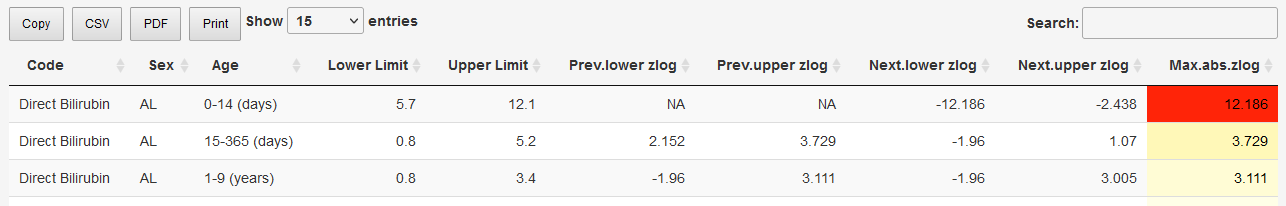
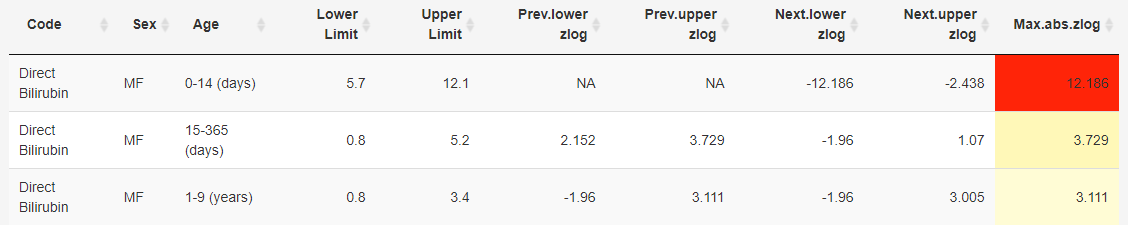
Change "AL" to "MF"

diff --git a/README.md b/README.md
@@ -1,4 +1,4 @@
-# Shiny App for Plausibility Checks of Reference Interval Limits!
+# Shiny App for "A zlog-based algorithm and tool for plausibility checks of reference intervals!"
 
 <img src="www/Logo.svg" width="225px" height="150px" align="right"/>
 
@@ -9,8 +9,8 @@
 
 This Shiny App computes the zlog values of the preceding and the subsequent reference interval for different analytes for each age group. Many medical reference intervals are not age-dependent and have large jumps between the individual age groups. This should be prevented by considering the zlog value. The lower reference limits (LL) and upper reference limits (UL) can transform any result x into a zlog value using the following equation: 
 
+zlog(x) = (log(x)–(log(LL)+ log(UL))/2)*3.92/(log(UL)–log(LL))
 
-<img src="https://render.githubusercontent.com/render/math?math={zlog(x)=(log(x) - \frac{log(UG) %2B log(OG)}{2}}) * \frac{3.92}{log(OG) - log(UG)}" align="center">
 If the zlog value deviates significantly from -1.96 to 1.96, the reference intervals and the age groups should possibly be renewed to obtain age-dependent reference intervals.
 <p>&nbsp</p>
 <img src="docs/table.png" align="center"/>
@@ -53,7 +53,7 @@ For new data use the [CALIPER-Dataset](https://github.com/SandraKla/Zlog_AdRI/bl
 
 * **CODE**: Name of the analyte ("Calcium") 
 * **LABUNIT**: Unit of the analyte ("mmol/L")
-* **SEX**: "M" for male, "F" for female and "AL" for male and female together
+* **SEX**: "M" for male, "F" for female and "MF" for male and female together
 * **UNIT**: Unit of the age range in "year", "month", "week" or "day"
 * **AgeFrom**: Start of the age range 
 * **AgeUntil**: End of the age range 
@@ -69,6 +69,6 @@ You are welcome to:
 
 For more information use the [Homepage](https://sandrakla.github.io/Zlog_AdRI/)! 
 
-Link to the publication: *A Tool for Plausibility Checks of Reference Interval Limits*
+Link to the publication: *A zlog-based algorithm and tool for plausibility checks of reference intervals*
 
 See also the CRAN-package "zlog": Sebastian Gibb. (2021). ampel-leipzig/zlog: First public CRAN release. (1.0.0). Zenodo. [10.5281/zenodo.4732319](https://doi.org/10.5281/zenodo.4732319)

diff --git a/docs/index.md b/docs/index.md
@@ -4,11 +4,11 @@
 
 This Shiny App computes the zlog values of the preceding and the subsequent reference interval for different analytes for each age group. Many medical reference intervals are not age-dependent and have large jumps between the individual age groups. This should be prevented by considering the zlog value. The lower reference limits (LL) and upper reference limits (UL) can transform any result x into a zlog value using the following equation: 
 
-<img src="https://render.githubusercontent.com/render/math?math={zlog(x) = (log(x) - \frac{log(UG) %2B log(OG)}{2}}) * \frac{3.92}{log(OG) - log(UG)}" align="center">
+zlog(x) = (log(x)–(log(LL)+ log(UL))/2)*3.92/(log(UL)–log(LL))
 
 If the zlog value deviates significantly from -1.96 to 1.96, the reference intervals and the age groups should possibly be renewed to obtain age-dependent reference intervals.
 
 <img src="shiny.png" align="center"/>
 <img src="shiny_table.png" align="center"/>
 
-Link to the publication: *A Tool for Plausibility Checks of Reference Interval Limits*
+Link to the publication: *A zlog-based algorithm and tool for plausibility checks of reference intervals*

diff --git a/docs/about.md b/docs/about.md
@@ -11,7 +11,7 @@ You are welcome to:
 
 For more information use the [Homepage](https://sandrakla.github.io/Zlog_AdRI/)! 
 
-Link to the publication: *A Tool for Plausibility Checks of Reference Interval Limits*
+Link to the publication: *A zlog-based algorithm and tool for plausibility checks of reference intervals*
 
 See also the CRAN-package "zlog": Sebastian Gibb. (2021). ampel-leipzig/zlog: First public CRAN release. (1.0.0). Zenodo. [10.5281/zenodo.4732319](https://doi.org/10.5281/zenodo.4732319)
 
@@ -23,8 +23,8 @@ Hoffmann G, Klawonn F, Lichtinghagen R & Orth M. The zlog value as a basis for t
 
 ## Versions 
 
-* [R](https://www.r-project.org) ≥ 4.1.2 
-* [DT](https://cran.r-project.org/web/packages/DT/index.html) ≥ 0.13
-* [shiny](https://cran.r-project.org/web/packages/shiny/index.html) ≥ 1.4.0
+* [R](https://www.r-project.org) ≥ 4.1.2
+* [DT](https://cran.r-project.org/web/packages/DT/index.html) ≥ 0.21
+* [shiny](https://cran.r-project.org/web/packages/shiny/index.html) ≥ 1.7.1
 
 Older versions may also work, but full functionality is not guaranteed.

diff --git a/docs/guide.md b/docs/guide.md
@@ -8,7 +8,7 @@ For new data use the [CALIPER-Dataset](https://github.com/SandraKla/Zlog_AdRI/bl
 
 * **CODE**: Name of the analyte ("Calcium") 
 * **LABUNIT**: Unit of the analyte ("mmol/L")
-* **SEX**: "M" for male, "F" for female and "AL" for both
+* **SEX**: "M" for male, "F" for female and "MF" for both
 * **UNIT**: Unit of the age range in "year", "month", "week" or "day"
 * **AgeFrom**: Start of the age range 
 * **AgeUntil**: End of the age range 
